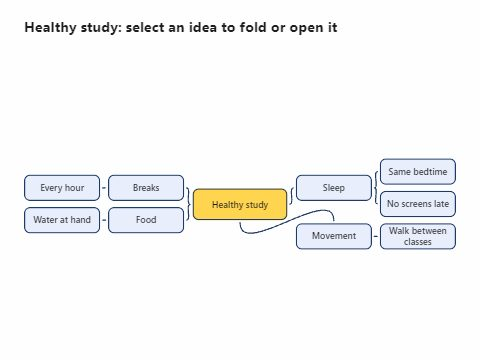
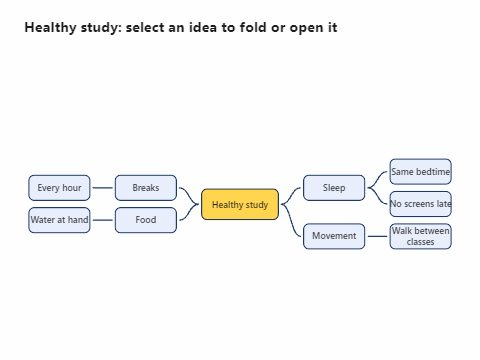
Build it examples: card pictures for stories and games; mind map boxes wide enough for their words

diff --git a/scripts/tutorial-examples/diagram.ts b/scripts/tutorial-examples/diagram.ts
@@ -46,7 +46,7 @@ function mindMapPage(p: Project, ab: Artboard) {
   ab.children.push(text('Title', 'Healthy study: select an idea to fold or open it', 40, 28, 720, { fontSize: 24, fontWeight: 700 }));
   variable(p, 'ideas', 'list', IDEAS);
   const folded = variable(p, 'folded', 'list', []);
-  variable(p, 'map', 'list', [], { formula: 'mindMap(ideas, {width: 720, height: 440, nodeW: 104, gapX: 40, collapsed: folded})', live: true });
+  variable(p, 'map', 'list', [], { formula: 'mindMap(ideas, {width: 720, height: 440, nodeW: 112, gapX: 32, collapsed: folded})', live: true });
 
   const idea = box('Idea', { fill: solid(C.pale) }, {
     'fill.color': `item.depth == 0 ? "${C.yellow}" : "${C.pale}"`,

diff --git a/src/help/build/diagram.ts b/src/help/build/diagram.ts
@@ -43,7 +43,7 @@ Each idea has an \`id\`, its words in \`label\`, and the \`id\` of the idea it h
 4. Add a third **List** called \`map\`. Next to its type, change **Starts as a value** to **Worked out**, and type this formula in the box that appears:
 
 \`\`\`
-mindMap(ideas, {width: 720, height: 440, nodeW: 104, gapX: 40, collapsed: folded})
+mindMap(ideas, {width: 720, height: 440, nodeW: 112, gapX: 32, collapsed: folded})
 \`\`\`
 
 5. Tick **Keep up to date**, so \`map\` is worked out again whenever \`ideas\` or \`folded\` changes.
